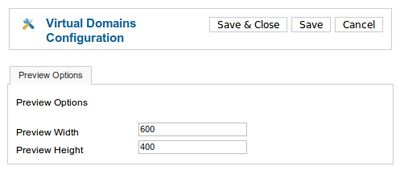
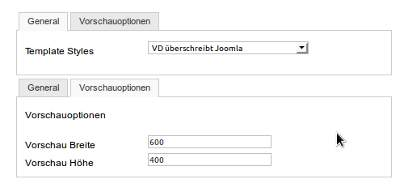
Hilfe für McCoy überarbeiten (deutsch) - refs #403
git-svn-id: svn://tools.janguo.de/virtualdomains/trunk@140 43e91662-23d2-4b0b-b03f-4c4df6fcf87b

diff --git a/help/de-DE/index.html b/help/de-DE/index.html
@@ -17,13 +17,13 @@
 
     <li><a class="active" href="#00-Wiki">Beschreibung</a></li>
 
-    <li><a href="#01-04-Chekov-features">Neue Features</a></li>
+    <li><a href="#01-04-Mccoy-features">Neue Features</a></li>
 
-    <li><a href="#02-04-Chekov-requierements">Anforderungen</a></li>
+    <li><a href="#02-04-Mccoy-requierements">Anforderungen</a></li>
 
-    <li><a href="#03-04-Chekov-installation">Installation</a></li>
+    <li><a href="#03-04-Mccoy-installation">Installation</a></li>
 
-    <li><a href="#04-04-Chekov-configuration">Backend Handbuch</a>
+    <li><a href="#04-04-Mccoy-configuration">Backend Handbuch</a>
 	<ul class="submenu">
 	    <li><a href="#Virtualdomains-Manager">Virtualdomains Manager</a></li>
             <li><a href="#Details-Page">Domain Detailseite</a></li>
@@ -34,9 +34,9 @@
 	</ul>
     </li>
 
-    <li><a href="#05-04-Chekov-quickanddirty">Quick'nDirty</a></li>
+    <li><a href="#05-04-Mccoy-quickanddirty">Quick'nDirty</a></li>
 
-    <li><a href="#06-04-Chekov-restrictions">Einschränkungen</a></li>
+    <li><a href="#06-04-Mccoy-restrictions">Einschränkungen</a></li>
       <li><a href="#Appendix">Anhang</a>
       <ul class="submenu">
       			<li><a href="#Setup-a-Test-Environment-under-Windows">Testumgebung unter Windows</a></li>
@@ -53,72 +53,46 @@
 <div class="chapter" id="00-Wiki">
 <h1>Beschreibung<a href="#Wiki" class="wiki-anchor">&para;</a></h1>
 
-<p>Mit einer einzigen Joomla-Installation unterschiedliche Webseiten mit jeweils eigenständigem Design und Startseiteninhalt, eigenständiger (Standard-) Sprache und Menustruktur betreiben.</p>
+<p>Mit einer einzigen Joomla-Installation unterschiedliche Webseiten mit jeweils eigenständigem Design und Startseiteninhalt, und eigenständiger  Menustruktur betreiben.</p>
 
-	<p>Virtual Domains macht Joomla multidomainfähig und nimmt dabei keine Änderungen am Joomla Core vor. Mit wenigen Klicks  trägst du beliebig viele verfügbare Domains im Backend der Komponente ein und weist ihnen Eigenschaften zu.</p>
+	<p>Virtual Domains macht Joomla multidomainfähig und nimmt dabei keine Änderungen am Joomla Core und an den Datenbanken vor. Mit wenigen Klicks  trägst du beliebig viele verfügbare Domains im Backend der Komponente ein und weist ihnen Eigenschaften zu.</p>
 
-	<p>Es ist empfehlenswert, für jede Subdomain/Domain ein eigenes Template zu installieren. Bei den Templates könnten Eingriffe nötig sein.</p>
+	<p>Es ist empfehlenswert, für jede Subdomain/Domain ein eigenes Template zu installieren.</p>
 
 
-	<p><strong>Aktuelle Version:  0.4-Chekov </strong></p>
+	<p><strong>Aktuelle Version: 1.1-McCoy </strong></p>
 <hr />
 </div>
-<div class="chapter" id="01-04-Chekov-features">
-<a name="01-04-Chekov-features" />
+<div class="chapter" id="01-04-Mccoy-features">
+<a name="01-04-Mccoy-features" />
 
-<h1>Neue Features<a href="#04-Chekov-Features" class="wiki-anchor">&para;</a></h1>
+<h1>Neue Features<a href="#04-Mccoy-Features" class="wiki-anchor">&para;</a></h1>
 
 
 	<h2 id="Features-in-component">Features der Komponente<a href="#Features-in-component" class="wiki-anchor">&para;</a></h2>
 
-
 	<ul>
-	<li>Domainvorschau im Joomla Backend</li>
+		<li>Template Style pro Domain konfigurieren</li>
+	</ul>
+	
+	<ul>
+		<li>Content über Accesslevels einzelnen Domains zuweisen</li>
 	</ul>
 
-
-<blockquote>
-
-	<p><a href="#Virtualdomains-Backend-Preview" class="wiki-page new">So gehts</a></p>
-
-
-</blockquote>
-
 	<ul>
-	<li>Für größere  Flexibilität ohne Hardcoding eigene Parameter definieren</li>
-	</ul>
-
-
-<blockquote>
-
-	<p><a href="#Custom-parameters" class="wiki-page new">So gehts</a></p>
-
-
-</blockquote>
-
-	<ul>
-		<li>Domainspezifische Meta-Description und Meta-Keywords definieren</li>
-		<li>Domainspezifische Standardsprache festlegen</li>
-	</ul>
-
-
-	<h2 id="Features-in-plugin"> Features im Plugin<a href="#Features-in-plugin" class="wiki-anchor">&para;</a></h2>
-
-
-	<ul>
-	<li>Kürzere Ladezeiten der Domains</li>
+	<li>Menüpunkte je Domain verbergen/anzeigen</li>
 	</ul>
 
 <hr />
 </div>
-<div  class="chapter" id="02-04-Chekov-requierements">
+<div  class="chapter" id="02-04-Mccoy-requierements">
 
-<a name="02-04-Chekov-requierements" />
-<h1>Anforderungen (04-Chekov)<a href="#Requirements-04-Chekov" class="wiki-anchor">&para;</a></h1>
+<a name="02-04-Mccoy-requierements" />
+<h1>Anforderungen (1.1-McCoy)<a href="#Requirements-04-Mccoy" class="wiki-anchor">&para;</a></h1>
 
 
 	<ol>
-	<li>Joomla 1.5 oder 1.6</li>
+	<li>Joomla 1.6 oder höher</li>
 		<li>PHP 5.2.0 oder höher</li>
 		<li>Eine oder mehrere Serveraliase deiner Domain<br /> oder<br />  Zwei oder mehrere Virtuelle Hosts, die auf die gleich Document Root zeigen
 
@@ -130,8 +104,8 @@
 
 <hr />
 </div>
-<div class="chapter" id="03-04-Chekov-installation">
-<a name="03-04-Chekov-installation" />
+<div class="chapter" id="03-04-Mccoy-installation">
+<a name="03-04-Mccoy-installation" />
 <h1>Installation<a href="#Installation-04-Checkov" class="wiki-anchor">&para;</a></h1>
 
 
@@ -139,20 +113,20 @@
 	<li>Lade das VD-Paket für deine Joomla-Version von der <a href="http://redmine.janguo.de/projects/vd-main/files">Projektseite</a> herunter </li>
 		<li>Wähle im Joomla-Backend <em>Erweiterungen⇒Installieren/Deinstallieren</em> bzw. <em>Erweiterungen⇒Erweiterungsmanager</em>, klicke auf Hochladen, wähle das Paket aus deinem Download-Ordner und klicke auf <strong>Hochladen&#38;Installieren</strong>. <br />  Das Paket wird installiert und die Systemmeldung "Paket-Installation erfolgreich" wird angezeigt.</li>
 		<li>Wähle <em>Erweiterungen⇒Plugin-Manager</em>, filtere nach System Plugins und klicke auf den Titel der Spalte <strong>Reihenfolge</strong>, gib in der Zeile <strong>System - virtualdomains</strong>im Feld Reihenfolge die Ziffer <strong>1</strong>ein, um das das Plugin als erstes zu laden. Dies ist notwendig, damit das Routen korrekt funktioniert.</li>
-		<li>Klicke <strong>Status</strong>, um das Plugin zu aktivieren.</li>		
+		<li>Klicke auf <strong>Status</strong>, um das Plugin zu aktivieren.</li>		
 	</ol>
 
 
 </p>
 
 
-	<p>Du kannst nun deine weiteren Domains/Subdomains konfigurieren.  (<em>Komponenten⇒Virtualdomains</em>)</p>
+	<p>Du kannst nun deine Domains/Subdomains konfigurieren.  (<em>Komponenten⇒Virtualdomains</em>)</p>
 
 <hr />
 </div>
-<div class="chapter" id="04-04-Chekov-configuration">
-<a name="04-04-Chekov-configuration" />
-<h1>Backend Handbuch (1.0-McCoy)<a href="#Backend-Overview-04-Chekov" class="wiki-anchor">&para;</a></h1>
+<div class="chapter" id="04-04-Mccoy-configuration">
+<a name="04-04-Mccoy-configuration" />
+<h1>Backend Handbuch (1.0-McCoy)<a href="#Backend-Overview-04-Mccoy" class="wiki-anchor">&para;</a></h1>
 
 	<p><strong>Virtual Domains Menü</strong></p>
 
@@ -202,6 +176,7 @@
 	<ul>
 	<li><strong>Domain</strong>: Klicke auf den Link um eine Domain auf der <a href="#Details-Page" class="wiki-page">Detailseite</a> zu bearbeiten</li>
 		<li><strong>Vorschau</strong>:Zeige die Domain im Vorschau-Frame an und teste ob alles wie gewünscht funktioniert. (Du kannst Höhe und Breite in der  <a href="#Component-Configuration">Komponenten-Konfiguration </a>an die Einstellungen deines Monitors anpassen)</li>
+	<li><strong>Default Domain (wichtig! Nicht optional))</strong>: Klicke auf das Stern-Symbol, um die Domain als Default-Domain zu kennzeichnen. Diese Domain übernimmt ihre Eigenschaften aus der allgemeinen Joomla Konfiguration.</li>
 	</ul>
 
 
@@ -346,7 +321,7 @@ auf der du unterschiedliche Werte für jede Domain definieren kannst.</p>
 	<h3 id="Configuration-Description">Beschreibung<a href="#Configuration-Description" class="wiki-anchor">&para;</a></h3>
 
 
-	<p>Hier kannst du die Größe des Domain-Vorschau-Frames einstellen.</p>
+	<p>Hier kannst du das globale Verhalten in bezug auf Template-Styles und die Größe des Domain-Vorschau-Frames einstellen.</p>
 
 
 	<h3 id="Configuration-Screenshot">Screenshot<a href="#Configuration-Screenshot" class="wiki-anchor">&para;</a></h3>
@@ -354,8 +329,15 @@ auf der du unterschiedliche Werte für jede Domain definieren kannst.</p>
 
 	<p><a class="thumb" href="images/config.jpg"><img src="images/83.jpg" /></a>
 </p>
-
-
+	<h3 id="General-Options">General<a href="#General-Options" class="wiki-anchor">&para;</a></h3>
+	<strong>Template Styles</strong>: Bestimmt das Template-Style-Verhalten dieser Domain. Es können folgende Werte definiert werden.
+		<ul>
+			<li><strong>Globale Einstellung:</strong> Die Einstellung in den Optionen der Komponente wird verwendet</li>
+			<li><strong>VD überschreibt Joomla:</strong> Es wird immer der für diese Domain definierte Template-Style angezeigt.</li>
+			<li><strong>VD überschreibt den Startmenupunkt:</strong> Nur die Startseite dieser Domain wird im definierten Template-Style angezeigt.</li>
+			<li><strong>Joomlakonfiguration verwenden:</strong> Es wird in allen Fällen der in der Joomla-Konfiguration definierte Template-Style angezeigt.</li>
+		</ul>
+		
 	<h3 id="Preview-Options">Vorschau Optionen<a href="#Preview-Options" class="wiki-anchor">&para;</a></h3>
 
 
@@ -380,40 +362,28 @@ auf der du unterschiedliche Werte für jede Domain definieren kannst.</p>
 	<h3 id="Plugin-Description">Beschreibung<a href="#Plugin-Description" class="wiki-anchor">&para;</a></h3>
 
 
-	<p>Das VD Plugin überschreibt die Joomla Einstellungen gemäß deinen Definitionen im Virtualdomains Manager wenn die Webseite unter einer der konfigurierten Domains/Subdomains augerufen wird.<br />Du musst deine Standard-Domain in den Plugin Parametern definieren.</p>
+	<p>Das VD Plugin überschreibt die Joomla Einstellungen gemäß deinen Definitionen im Virtualdomains Manager wenn die Webseite unter einer der konfigurierten Domains/Subdomains augerufen wird.<br /></p>
 
 
-	<h3 id="Plugin-Screenshot">Screenshot<a href="#Plugin-Screenshot" class="wiki-anchor">&para;</a></h3>
 
-
-	<p><a class="thumb" href="images/vd-plugin.jpg"><img src="images/89.jpg" /></a>
-</p>
-
-
-	<h3 id="Plugin-Parameters">Plugin Parameters<a href="#Plugin-Parameters" class="wiki-anchor">&para;</a></h3>
-
-
-	<ul>
-	<li><strong>Standard Domain:</strong> Erfasse den Namen deiner Standard-Domain (erforderlich)</li>
-		<li><strong>Change only template:</strong> Verwende VD ausschließlich als Template-Switcher. Andere Einstellungen auf den Domain Detail-Seiten werden ignoriert.</li>
-	</ul>
 
 <hr />
 </div>
-<div  class="chapter" id="05-04-Chekov-quickanddirty">
-<a name="05-04-Chekov-quickanddirty" />
+<div  class="chapter" id="05-04-Mccoy-quickanddirty">
+<a name="05-04-Mccoy-quickanddirty" />
 <h1>Quick'n Dirty  Beispiel<a href="#Quickn-Dirty-Example" class="wiki-anchor">&para;</a></h1>
 
 
 	<h2 id="Introduction">Einführung<a href="#Introduction" class="wiki-anchor">&para;</a></h2>
 
 
-	<p>Vor allem zwei Eigenschaften ändert VD bei den zusätzlichen Domains:</p>
+	<p>Vor allem drei Eigenschaften ändert VD bei den zusätzlichen Domains:</p>
 
 
 	<ol>
 	<li>Das Erscheinungsbild: Der Domain wird ein alternatives Template zugewiesen.</li>
-		<li>Die Startseite: Entgegen der Einstellung in der Site-Konfiguration von Joomla wird der Domain ein alternativer Menupunkt als Startseite zugewiesen.</li>
+	<li>Die Startseite: Entgegen der Einstellung in der Site-Konfiguration von Joomla wird der Domain ein alternativer Menupunkt als Startseite zugewiesen.</li>
+	<li>Für jede Domain existiert eine eigene Zugriffsebene, der der Besucher temporär zugeordnet wird (in der Session). Der Zugriff (in der Regel die Anzeige) auf Elemente kann so für jede Domain geregelt werden.</li>
 	</ol>
 
 
@@ -430,38 +400,29 @@ auf der du unterschiedliche Werte für jede Domain definieren kannst.</p>
 	</ol>
 
 
-	<h4>Umsetzung</h4>
+	<h4>Umsetzung (Beispiel)</h4>
 
 
 	<ol>
 	<li>Lege die erforderlichen Menüpunkte im <strong>Menu Manager</strong> an.</li>
-		<li>Füge in der Datei "templateDetails.xml" im XML-Tag "positions" eine Position "first" hinzu, im Template 
-      'Beez' die Position 'second' und in beiden Templates eine Position 'company'. Stelle sicher, dass diese Positionen in der index.php des jeweiligen Templates aufgerufen werden und korrekt platziert sind  (z.B.:<strong><em> &lt;jdoc:include type="modules" name="first" /&gt;</em></strong>)</li>
-		<li>Weise im Joomla Backend unter Extensions → Modules
-	<ul>
-	    <li>dem Menu 'firstmenu' die Position 'first'  zu</li>
-		<li>dem Menu 'secondmenu' die Position 'second' zu</li>
-		<li>dem Menu 'Firma' die Position 'company' zu</li>
-	</ul>
-	</li>
-		<li>Definiere im Plugin virtualdomains define main.domain.tld als Standard-Domain.</li>
-		<li>Erstelle im Virtual Domains Manager den Eintrag second.domain.tld, konfiguriere dort das Template 'Beez' und definiere den Menüpunkt "News" als Home-Menüpunkt.</li>
+		<li>Erstelle im Virtual Domains Manager den Eintrag first.domain.tld speichere und klicke auf das Stern-Symbol in der Spalte <strong>Default Domain</strong>. first.domain.tld wird im in Joomla definierten Standard-Template angezeigt werden.</li>
+		<li>Erstelle den Eintrag  second.domain.tld, konfiguriere unterschiedliche Template-Styles und definiere den Menüpunkt "News" als Home-Menüpunkt.</li>
+		<li>Erstelle im Joomla Backend unter Extensions → Modules ein Menumodul für jede Domain, weise ihm die gleichnamige Zugriffseben der jeweiligen Domain und eine geeignete Templateposition zu.</li>
 	</ol>
 
 
-	<p>Jede Domain hat nun ein anderes Design und sowohl je ein Menu, das auf separate Inhalte verweist, als auch ein gemeinsames Menu mit gleichem Inhalt.</p>
+	<p>Jede Domain hat nun ein anderes Design und sowohl je ein Menu, das auf separate Inhalte verweist.</p>
 
 <hr />
 </div>
-<div  class="chapter" id="06-04-Chekov-restrictions">
-<a name="06-04-Chekov-restrictions" />
+<div  class="chapter" id="06-04-Mccoy-restrictions">
+<a name="06-04-Mccoy-restrictions" />
 
-<h1>Einschränkungen (04-Chekov)<a href="#Restrictions-04-Chekov" class="wiki-anchor">&para;</a></h1>
+<h1>Empfehlungen<a href="#Restrictions-04-Mccoy" class="wiki-anchor">&para;</a></h1>
 
 
 	<ul>
-	<li>VD separiert nicht wirklich die Inhalte der verschiedenen Domains voneinander.<br />    Wenn du zum Beispiel die Suche verwendest, wirst du Ergebnisse von allen Domains erhalten.<br /> Es ist in der aktuellen Version auch nicht möglich, alternative Startseiten-Beiträge für die zusätzlichen Domains zu definieren.</li>
-		<li>Konflikte mit Third-Party-Erweiterungen sind nicht auszuschließen, zumal dann nicht, wenn diese die Joomla-Api uumgehen. Du kannst das Risiko von Problemen vermindern, indem du das VD-Plugin an der ersten Stelle der System-Plugins positionierst.</li>
+		<li>Konflikte mit Third-Party-Erweiterungen sind nicht auszuschließen, zumal dann nicht, wenn diese die Joomla-Api umgehen. Daher sollte das  VD-Plugin an der ersten Stelle der System-Plugins positioniert werden.</li>
 	</ul>
 
 <hr />

diff --git a/plg_virtualdomains/virtualdomains.php b/plg_virtualdomains/virtualdomains.php
@@ -327,9 +327,7 @@ class plgSystemVirtualdomains extends JPlugin
 
 		$menuItem = & $menu->getItem(( int )$curDomain->menuid );
 
-
 		$rewrite = (str_replace('/','',$_SERVER['REQUEST_URI'] ) == '');
-
 
 		$origHome = $this->getDefaultmenu();
 
